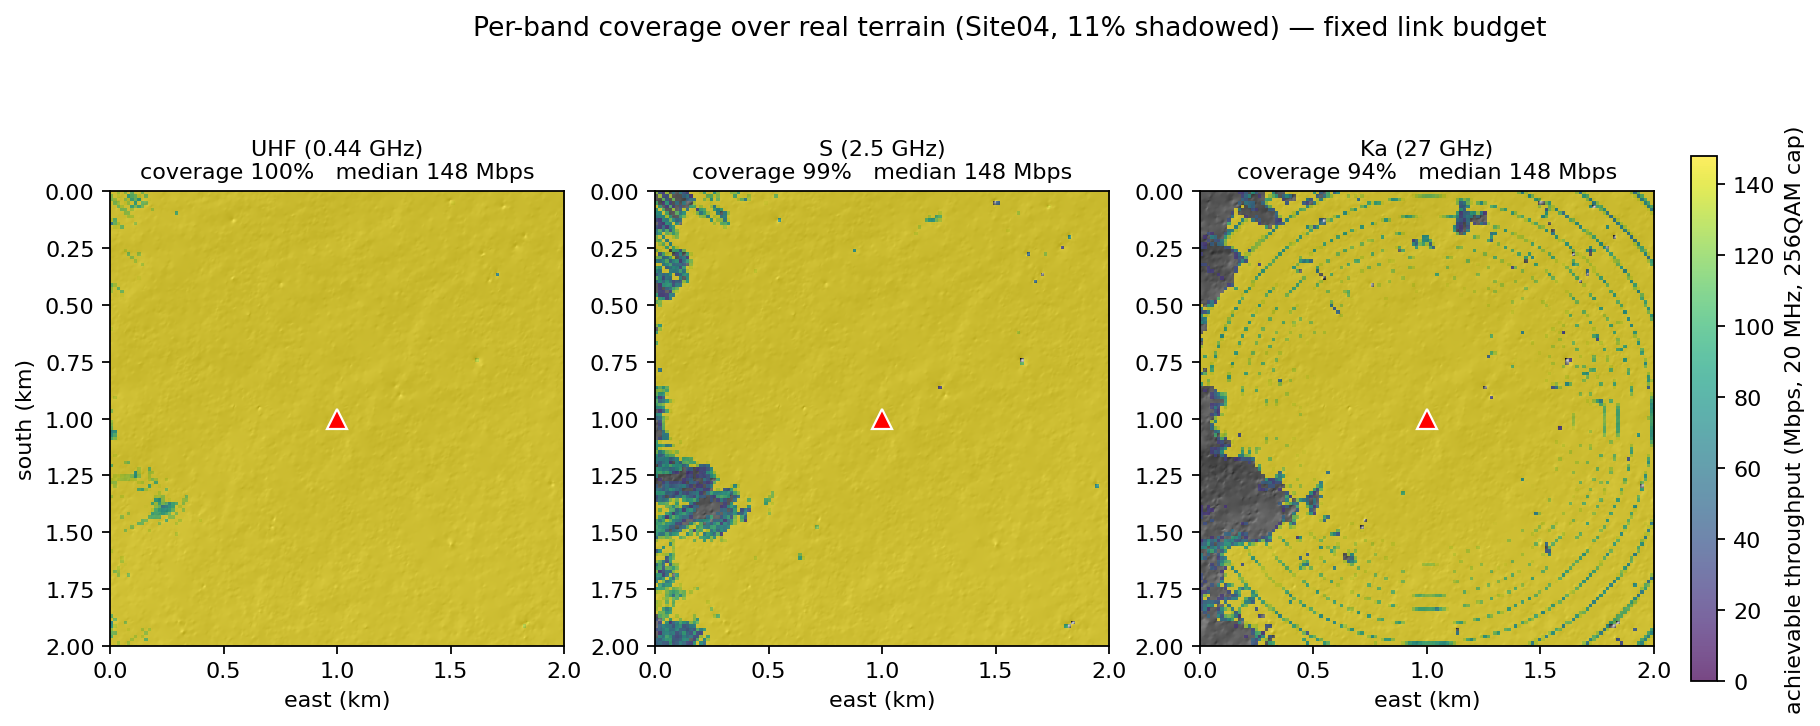
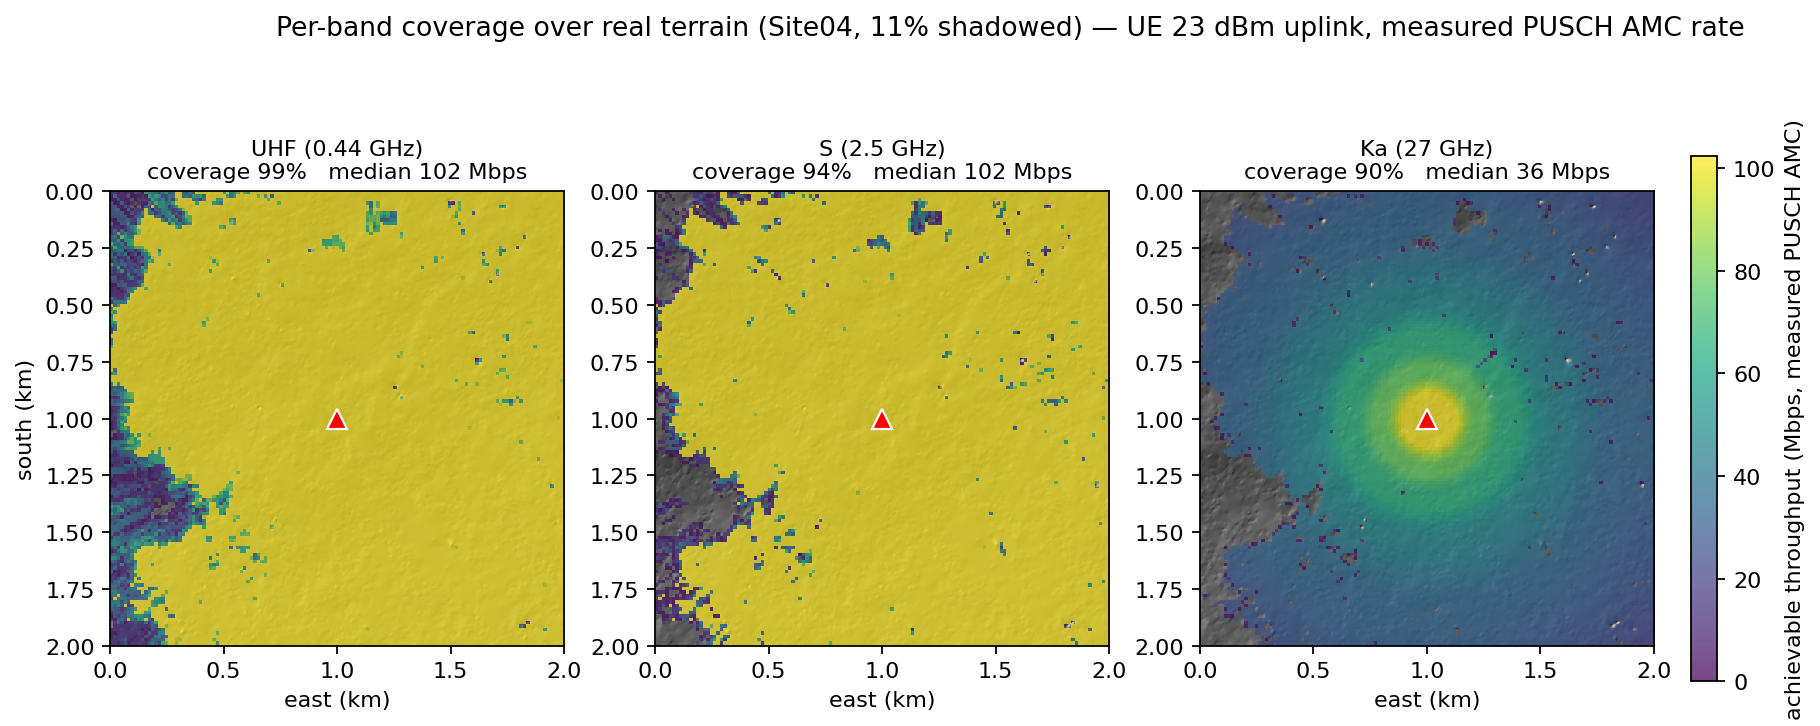
Per-pixel MCS-accurate throughput maps from a measured PUSCH AMC curve
Replaces the Shannon rate in the band-comparison maps with a MEASURED
link-adaptation curve, and cleans the maps to the two-ray envelope.

- matlab/run_amc_curve.m: sweeps 8 NR MCS (QPSK->256QAM) over the lunar LOS
  channel and records the AMC envelope (best-MCS throughput vs SNR). Ran in
  MATLAB R2026a + 5G Toolbox; peak 102 Mbps at 256QAM R=0.87 (18.4 MHz used).
  Output matlab/amc_throughput_curve.csv.
- analysis/band_comparison_maps.py: per-pixel SNR -> throughput now
  interpolates that measured curve (--amc-csv; Shannon fallback if absent).
  Added --mode {bs,ue}: the UE 23 dBm uplink (binding direction) makes the
  throughput grade spatially across the AMC curve. At Site04: UHF/S sustain
  102 Mbps at ~99/94% coverage; Ka drops to 90% coverage AND ~36 Mbps median
  -- a ~300 m high-rate cell around the mast, falling radially. The higher
  band's penalty is both coverage (terrain) and rate (range).
- two_ray.path_loss_envelope_db + tests/test_two_ray_envelope.py: dual-slope
  local-mean model (FSPL below the crossover d_bp = 4*pi*h_t*h_r/lambda, then
  40 log10 d), continuous at d_bp. The maps use the envelope, not the exact
  coherent sum, so the two-ray nulls (fast fading, under-sampled at the pixel
  -> concentric-ring moire) no longer alias into the coverage map; the exact
  oscillation stays in the tap/trajectory export where a rover resolves it.
  This is the principled resolution of the "oscillation is an artifact" note.

Full suite: 70 passed, 3 skipped.

diff --git a/analysis/band_comparison_maps.py b/analysis/band_comparison_maps.py
@@ -37,16 +37,16 @@ from lunarcomms.propagation import diffraction, friis, two_ray
 
 BANDS = {"UHF (0.44 GHz)": 0.442e9, "S (2.5 GHz)": 2.5e9, "Ka (27 GHz)": 27.0e9}
 
-# Fixed link budget across bands (BS downlink).
-EIRP_DBM, GRX_DBI, NF_DB, B_HZ, RHO = 53.0, 2.0, 5.0, 20e6, 1.50
+# Link budget held fixed across bands (only propagation differs).
+NF_DB, B_HZ, RHO = 5.0, 20e6, 1.50
 H_TX, H_RX = 30.0, 2.0
-SE_MAX = 7.4                      # 256QAM ceiling, b/s/Hz
+SE_MAX = 7.4                      # 256QAM ceiling, b/s/Hz (Shannon fallback)
 SNR_MIN_DB = 0.0                 # below this a pixel is "uncovered"
 N0_DBM = -174 + 10 * np.log10(B_HZ) + NF_DB
 
 
-def snr_map_for_band(dem, px, tx_rc, los, freq_hz, stride):
-    """Per-pixel downlink SNR (dB) at one band, given the precomputed LOS mask."""
+def snr_map_for_band(dem, px, tx_rc, los, freq_hz, stride, eirp_dbm, grx_dbi):
+    """Per-pixel SNR (dB) at one band, given the precomputed LOS mask."""
     ny, nx = dem.shape
     tx_elev = dem[tx_rc] + H_TX
     snr = np.full((ny, nx), np.nan)
@@ -61,22 +61,40 @@ def snr_map_for_band(dem, px, tx_rc, los, freq_hz, stride):
                 rx_elev = dem[i, j] + H_RX
                 d3d = float(np.hypot(dh, rx_elev - tx_elev))
                 if los[i, j]:
-                    pl = float(two_ray.path_loss_db(dh, H_TX, H_RX,
-                                                    freq_hz, RHO))
+                    # Envelope (dual-slope), not the exact coherent sum: the
+                    # two-ray nulls are fast fading that aliases into moire on
+                    # a pixel-sampled map. The exact oscillation lives in the
+                    # tap/trajectory export where a rover resolves it.
+                    pl = float(two_ray.path_loss_envelope_db(
+                        dh, H_TX, H_RX, freq_hz))
                 else:
                     pl = float(friis.fspl_db(d3d, freq_hz))
                     h, dist = extract_profile(dem, tx_rc[0], tx_rc[1],
                                               i, j, px)
                     pl += float(diffraction.deygout_loss_db(
                         h, dist, H_TX, H_RX, freq_hz))
-            prx = EIRP_DBM + GRX_DBI - pl
+            prx = eirp_dbm + grx_dbi - pl
             snr[i:i + stride, j:j + stride] = prx - N0_DBM
     snr[np.isnan(dem)] = np.nan
     return snr
 
 
-def throughput_map(snr_db):
-    """Shannon achievable rate (Mbps), 256QAM-capped, 0 below SNR_MIN_DB."""
+def throughput_map(snr_db, amc=None):
+    """Per-pixel achievable throughput (Mbps).
+
+    amc = (snr_grid, tput_grid) from the MEASURED PUSCH link-adaptation curve
+    (matlab/run_amc_curve.m): per-pixel SNR is interpolated onto it, so the
+    map is MCS-accurate rather than an idealised Shannon bound. Below the
+    lowest measured SNR the throughput is 0 (outage); above the top it is
+    clamped to the measured peak (256QAM saturates). If amc is None, falls
+    back to a 256QAM-capped Shannon estimate.
+    """
+    if amc is not None:
+        snr_grid, tput_grid = amc
+        tput = np.interp(snr_db, snr_grid, tput_grid,
+                         left=0.0, right=tput_grid[-1])
+        tput = np.where(np.isnan(snr_db), np.nan, tput)
+        return tput
     se = np.minimum(np.log2(1.0 + 10.0 ** (snr_db / 10.0)), SE_MAX)
     tput = B_HZ * se / 1e6
     tput[snr_db < SNR_MIN_DB] = 0.0
@@ -89,8 +107,33 @@ def main():
     ap.add_argument("--clip-km", type=float, default=1.0)
     ap.add_argument("--tx-frac", type=float, nargs=2, default=(0.5, 0.5))
     ap.add_argument("--stride", type=int, default=3)
+    ap.add_argument("--mode", choices=["bs", "ue"], default="ue",
+                    help="bs: 53 dBm downlink (generous, coverage-limited); "
+                    "ue: 23 dBm uplink (binding, throughput grades spatially).")
+    ap.add_argument("--eirp-dbm", type=float, default=None)
+    ap.add_argument("--grx-dbi", type=float, default=None)
+    ap.add_argument("--amc-csv", default="matlab/amc_throughput_curve.csv",
+                    help="Measured PUSCH link-adaptation curve (SNR_dB, "
+                    "throughput_Mbps) from matlab/run_amc_curve.m. If absent, "
+                    "falls back to a 256QAM-capped Shannon estimate.")
     ap.add_argument("--out", default="figures/band_comparison_maps.png")
     args = ap.parse_args()
+
+    import os
+    amc = None
+    if os.path.exists(args.amc_csv):
+        arr = np.loadtxt(args.amc_csv, delimiter=",")
+        amc = (arr[:, 0], arr[:, 1])
+        print(f"using measured AMC curve {args.amc_csv} "
+              f"(peak {arr[:,1].max():.0f} Mbps)")
+    else:
+        print(f"AMC curve {args.amc_csv} not found -> Shannon fallback")
+
+    eirp = args.eirp_dbm if args.eirp_dbm is not None else (
+        53.0 if args.mode == "bs" else 23.0)
+    grx = args.grx_dbi if args.grx_dbi is not None else (
+        2.0 if args.mode == "bs" else 12.0)
+    direction = "BS 53 dBm downlink" if args.mode == "bs" else "UE 23 dBm uplink"
 
     dem, transform, _ = load_dem(args.dem, clip_extent_km=args.clip_km)
     px = abs(transform.a)
@@ -106,8 +149,8 @@ def main():
 
     tputs, stats = {}, {}
     for name, f in BANDS.items():
-        snr = snr_map_for_band(dem, px, tx_rc, los, f, args.stride)
-        tp = throughput_map(snr)
+        snr = snr_map_for_band(dem, px, tx_rc, los, f, args.stride, eirp, grx)
+        tp = throughput_map(snr, amc)
         tputs[name] = tp
         computed = np.isfinite(snr)
         cov = 100.0 * np.mean(snr[computed] >= SNR_MIN_DB)
@@ -139,9 +182,10 @@ def main():
         ax.set_xlabel("east (km)")
     axes[0].set_ylabel("south (km)")
     cb = fig.colorbar(im, ax=axes, shrink=0.82, pad=0.02)
-    cb.set_label("achievable throughput (Mbps, 20 MHz, 256QAM cap)")
+    rate_src = "measured PUSCH AMC" if amc is not None else "256QAM Shannon"
+    cb.set_label(f"achievable throughput (Mbps, {rate_src})")
     fig.suptitle(f"Per-band coverage over real terrain (Site04, "
-                 f"{shadowed:.0f}% shadowed) — fixed link budget",
+                 f"{shadowed:.0f}% shadowed) — {direction}, {rate_src} rate",
                  fontsize=12)
     fig.savefig(args.out, dpi=160, bbox_inches="tight")
     print(f"saved {args.out}")

diff --git a/matlab/run_amc_curve.m b/matlab/run_amc_curve.m
@@ -1,0 +1,128 @@
+%RUN_AMC_CURVE  Measured link-adaptation (AMC) throughput vs SNR curve.
+%
+%   Sweeps a set of NR MCS (QPSK -> 256QAM) over the lunar LOS channel (the
+%   two-ray tap from site04_traj_S.mat, near-AWGN) and, at each SNR, records
+%   the best achievable PUSCH throughput = max over MCS of
+%   SE * B * (1 - BLER), i.e. the AMC envelope a real scheduler would ride.
+%
+%   Writes matlab/amc_throughput_curve.csv (SNR_dB, throughput_Mbps) — the
+%   measured lookup that analysis/band_comparison_maps.py uses to turn its
+%   per-pixel SNR maps into MCS-accurate throughput (instead of Shannon).
+%
+%   Run from this folder:  >> run_amc_curve
+%
+%   This is the same validated PUSCH chain as run_pusch_bler.m (nrULSCH /
+%   nrPUSCH / nrChannelEstimate / nrEqualizeMMSE / nrULSCHDecoder,
+%   reset(decodeULSCH) per slot, NormalizePathGains=true since SNR is swept).
+
+if exist('nrCarrierConfig', 'class') ~= 8
+    error('run_amc_curve needs the 5G Toolbox.');
+end
+rng(707);
+
+carrier = nrCarrierConfig;
+carrier.NSizeGrid = 51;
+carrier.SubcarrierSpacing = 30;
+ofdmInfo = nrOFDMInfo(carrier);
+SR = ofdmInfo.SampleRate;
+slot_s = 1e-3 / (carrier.SubcarrierSpacing / 15);   % 0.5 ms @ SCS 30
+B_Hz = carrier.NSizeGrid * 12 * carrier.SubcarrierSpacing * 1e3;  % ~18.4 MHz used
+
+% Representative NR MCS ladder (modulation, target code rate).
+MCS = { ...
+    'QPSK',   120/1024; ...
+    'QPSK',   449/1024; ...
+    '16QAM',  490/1024; ...
+    '16QAM',  616/1024; ...
+    '64QAM',  567/1024; ...
+    '64QAM',  754/1024; ...
+    '256QAM', 682.5/1024; ...
+    '256QAM', 895/1024 };
+bitsPerSym = containers.Map({'QPSK','16QAM','64QAM','256QAM'}, {2,4,6,8});
+
+% Lunar LOS channel (median waypoint tap), Rician, worst-case Ka Doppler.
+S = load('site04_traj_S.mat');
+[~, ord] = sort(S.GainMagnitude_dB(:));
+wp = ord(round(numel(ord)/2));
+losDelays = S.PathDelays(wp, S.AveragePathGains(wp,:) > -250);
+fdKa = 1.0 * 27e9 / physconst('LightSpeed');
+makeCh = @() nrTDLChannel('DelayProfile','Custom','PathDelays',losDelays, ...
+    'AveragePathGains',zeros(1,numel(losDelays)),'NormalizePathGains',true, ...
+    'FadingDistribution','Rician','KFactorFirstTap',13, ...
+    'MaximumDopplerShift',fdKa,'SampleRate',SR);
+
+SNRdB = -4:2:30;
+NUM_SLOTS = 60;
+tputMCS = zeros(size(MCS,1), numel(SNRdB));
+
+encodeULSCH = nrULSCH;
+decodeULSCH = nrULSCHDecoder;
+decodeULSCH.LDPCDecodingAlgorithm = 'Normalized min-sum';
+
+for m = 1:size(MCS,1)
+    modulation = MCS{m,1};
+    R = MCS{m,2};
+    pusch = nrPUSCHConfig;
+    pusch.Modulation = modulation;
+    pusch.NumLayers  = 1;
+    pusch.PRBSet     = 0:carrier.NSizeGrid-1;
+    pusch.DMRS.DMRSAdditionalPosition = 1;
+    for s = 1:numel(SNRdB)
+        channel = makeCh();
+        chInfo = info(channel);
+        pathFilters = getPathFilters(channel);
+        maxChDelay = ceil(max(chInfo.PathDelays*SR)) + chInfo.ChannelFilterDelay;
+        nErr = 0; nBlk = 0; okBits = 0;
+        for nslot = 0:NUM_SLOTS-1
+            carrier.NSlot = nslot;
+            [puschInd, puschInfo] = nrPUSCHIndices(carrier, pusch);
+            trBlkLen = nrTBS(modulation, 1, numel(pusch.PRBSet), ...
+                puschInfo.NREPerPRB, R);
+            trBlk = randi([0 1], trBlkLen, 1);
+            setTransportBlock(encodeULSCH, trBlk);
+            cw = encodeULSCH(modulation, 1, puschInfo.G, 0);
+            sym = nrPUSCH(carrier, pusch, cw);
+            grid = nrResourceGrid(carrier, 1);
+            grid(puschInd) = sym;
+            dmrsSym = nrPUSCHDMRS(carrier, pusch);
+            grid(nrPUSCHDMRSIndices(carrier, pusch)) = dmrsSym;
+            tx = nrOFDMModulate(carrier, grid);
+            tx = [tx; zeros(maxChDelay, 1)]; %#ok<AGROW>
+            [rx, pathG] = channel(tx);
+            N0 = 1/sqrt(2 * ofdmInfo.Nfft * 10^(SNRdB(s)/10));
+            rx = rx + N0*complex(randn(size(rx)), randn(size(rx)));
+            offset = nrPerfectTimingEstimate(pathG, pathFilters);
+            rx = rx(1+offset:end, :);
+            rxGrid = nrOFDMDemodulate(carrier, rx);
+            [H, nVar] = nrChannelEstimate(carrier, rxGrid, ...
+                nrPUSCHDMRSIndices(carrier, pusch), dmrsSym);
+            [puschRx, puschH] = nrExtractResources(puschInd, rxGrid, H);
+            eq = nrEqualizeMMSE(puschRx, puschH, nVar);
+            llr = nrPUSCHDecode(carrier, pusch, eq, nVar);
+            reset(decodeULSCH);
+            decodeULSCH.TransportBlockLength = trBlkLen;
+            [~, blkerr] = decodeULSCH(llr, modulation, 1, 0);
+            nErr = nErr + blkerr; nBlk = nBlk + 1;
+            if ~blkerr, okBits = okBits + trBlkLen; end
+        end
+        tputMCS(m,s) = okBits / (NUM_SLOTS * slot_s) / 1e6;   % Mbps
+    end
+    fprintf('MCS %-6s R=%.2f  peak %.1f Mbps\n', modulation, R, max(tputMCS(m,:)));
+end
+
+% AMC envelope: best MCS at each SNR.
+tputEnv = max(tputMCS, [], 1);
+
+writematrix([SNRdB(:) tputEnv(:)], 'amc_throughput_curve.csv');
+fprintf('saved amc_throughput_curve.csv (%d points, peak %.1f Mbps)\n', ...
+    numel(SNRdB), max(tputEnv));
+
+figure('Name','AMC throughput curve','Position',[80 80 720 460]);
+plot(SNRdB, tputMCS.', ':', 'LineWidth', 0.8); hold on;
+plot(SNRdB, tputEnv, 'k-', 'LineWidth', 2.0);
+grid on; xlabel('SNR (dB)'); ylabel('throughput (Mbps)');
+legend([compose('%s R=%.2f', string(MCS(:,1)), cell2mat(MCS(:,2))); ...
+    "AMC envelope"], 'Location','northwest','Interpreter','none','FontSize',7);
+title('Measured PUSCH link-adaptation curve, lunar LOS channel (18.4 MHz)');
+exportgraphics(gcf, 'amc_throughput_curve.png', 'Resolution', 150);
+fprintf('saved amc_throughput_curve.png\n');

diff --git a/lunarcomms/propagation/two_ray.py b/lunarcomms/propagation/two_ray.py
@@ -113,6 +113,40 @@ def path_loss_spatial_db(
     return _two_ray_pl_from_gamma(distance_m, h_tx_m, h_rx_m, freq_hz, gamma_v)
 
 
+def path_loss_envelope_db(
+    distance_m,
+    h_tx_m: float,
+    h_rx_m: float,
+    freq_hz: float,
+):
+    """Two-ray LOCAL-MEAN (envelope) path loss (dB) -- the dual-slope
+    breakpoint model without the fast interference oscillation.
+
+    path_loss_db() returns the exact coherent direct+reflected sum, whose deep
+    nulls are FAST FADING: on a coverage MAP sampled at the DEM pixel they
+    alias into concentric-ring moire (the null spacing falls below the pixel,
+    especially at high frequency). For coverage/throughput maps use this
+    envelope; keep the exact oscillation for tap/trajectory export
+    (lunarcomms.export.taps), where a moving rover genuinely resolves it.
+
+    Model (dual-slope): free-space (1/d^2) below the crossover, the two-ray
+    far field (1/d^4) beyond it. The two curves cross at d_bp = 4*pi*h_t*h_r/
+    lambda (= pi * the null-spacing breakpoint 4 h_t h_r/lambda); the far-field
+    branch is the standard PL = 40 log10 d - 20 log10(h_t h_r) (G=1), so the
+    two branches are CONTINUOUS at d_bp -- anchoring the far field to FSPL at
+    the null breakpoint instead would leave a 20 log10(pi) ~ 9.9 dB step.
+    """
+    d = np.asarray(distance_m, dtype=float)
+    lam = _C / float(freq_hz)
+    d_bp = 4.0 * np.pi * h_tx_m * h_rx_m / lam
+    r1 = np.sqrt(d ** 2 + (h_tx_m - h_rx_m) ** 2)
+    pl_below = fspl_db(r1, freq_hz)
+    pl_above = 40.0 * np.log10(np.maximum(d, 1e-9)) \
+        - 20.0 * np.log10(h_tx_m * h_rx_m)
+    out = np.where(d <= d_bp, pl_below, pl_above)
+    return float(out) if np.ndim(out) == 0 else out
+
+
 def specular_reflection_point_fraction(h_tx_m: float, h_rx_m: float) -> float:
     """Flat-Earth specular point location as a fraction of d from the TX:
         x_spec / d = h_tx / (h_tx + h_rx).

diff --git a/tests/test_two_ray_envelope.py b/tests/test_two_ray_envelope.py
@@ -1,0 +1,44 @@
+"""Tests for two_ray.path_loss_envelope_db (dual-slope local-mean model)."""
+
+import numpy as np
+
+from lunarcomms.propagation import friis, two_ray
+
+H_TX, H_RX, F = 30.0, 2.0, 2.5e9
+D0 = two_ray.breakpoint_distance(H_TX, H_RX, F)   # null breakpoint, ~2 km
+D_BP = np.pi * D0                                 # FSPL / far-field crossover
+
+
+def test_matches_fspl_below_crossover():
+    d = D_BP / 4
+    env = two_ray.path_loss_envelope_db(d, H_TX, H_RX, F)
+    r1 = np.hypot(d, H_TX - H_RX)
+    assert env == friis.fspl_db(r1, F)
+
+
+def test_continuous_at_crossover():
+    lo = two_ray.path_loss_envelope_db(D_BP * 0.999, H_TX, H_RX, F)
+    hi = two_ray.path_loss_envelope_db(D_BP * 1.001, H_TX, H_RX, F)
+    assert abs(lo - hi) < 0.05          # no 9.9 dB step
+
+
+def test_dual_slope_beyond_crossover():
+    d1, d2 = 3 * D_BP, 30 * D_BP        # a decade in the 1/d^4 regime
+    pl1 = two_ray.path_loss_envelope_db(d1, H_TX, H_RX, F)
+    pl2 = two_ray.path_loss_envelope_db(d2, H_TX, H_RX, F)
+    assert abs((pl2 - pl1) - 40.0) < 0.1
+
+
+def test_monotonic_no_oscillation():
+    d = np.linspace(50, 40000, 800)
+    env = two_ray.path_loss_envelope_db(d, H_TX, H_RX, F)
+    assert np.all(np.diff(env) > -1e-6)   # never decreases (no nulls)
+
+
+def test_tracks_exact_far_field_local_mean():
+    # Beyond the crossover the exact coherent sum is smooth and follows the
+    # far-field asymptote; the envelope should match it closely.
+    d = np.linspace(3 * D_BP, 12 * D_BP, 400)
+    env = two_ray.path_loss_envelope_db(d, H_TX, H_RX, F)
+    exact = two_ray.path_loss_db(d, H_TX, H_RX, F)
+    assert np.mean(np.abs(exact - env)) < 1.0
